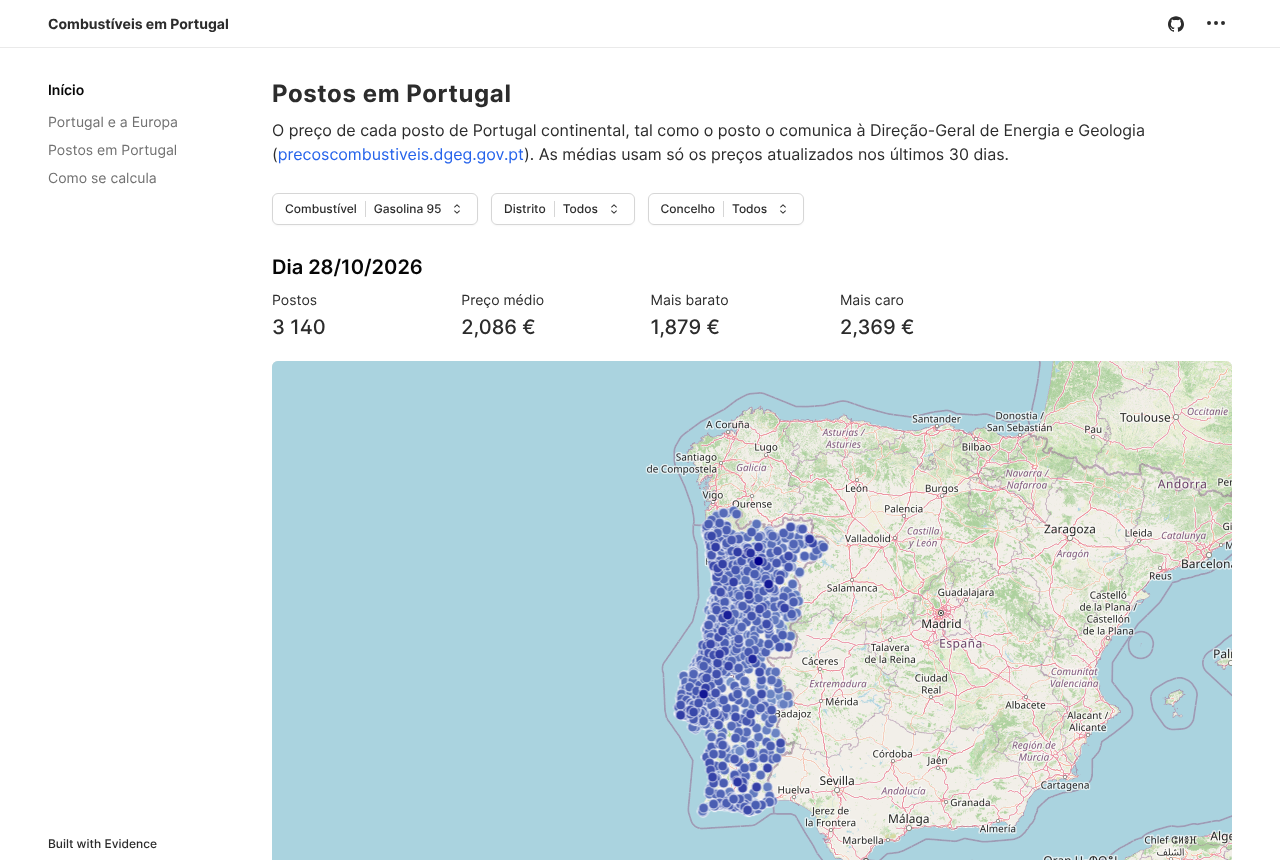
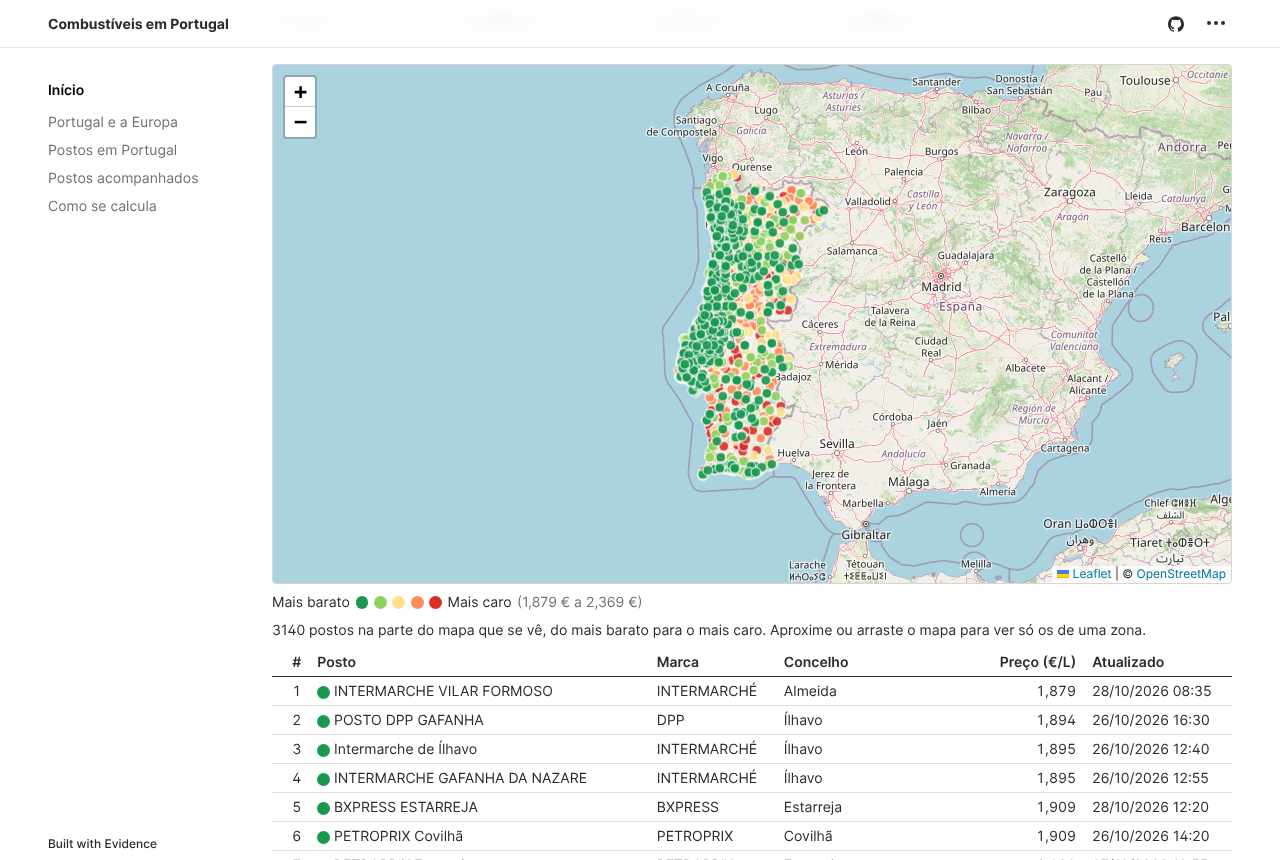
Add a price-sorted table under the stations map that follows the map view (#16)
Claude-Session: https://claude.ai/code/session_01AWiNXJotBmLdgxgatSz48F

diff --git a/dashboard/components/MapaPostos.svelte b/dashboard/components/MapaPostos.svelte
@@ -1,0 +1,233 @@
+<!--
+	Mapa dos postos com a tabela dos que se veem, do mais barato para o mais caro. A tabela
+	acompanha o mapa: ao aproximar ou arrastar, fica só com os postos dentro do mapa. Os
+	componentes de mapa do Evidence não dão os limites do mapa à página, por isso este usa o
+	Leaflet diretamente (já vem com o Evidence), com os mosaicos do OpenStreetMap.
+
+	Colunas de `data`: station_name, brand, municipality, price, updated_at, latitude, longitude.
+-->
+<script>
+	import { onDestroy, onMount } from 'svelte';
+	import 'leaflet/dist/leaflet.css';
+
+	/** Resultado de uma consulta do Evidence (um store com as linhas). */
+	export let data;
+	export let height = 520;
+	/** Linhas da tabela de cada vez; "Mostrar mais" junta outras tantas. */
+	export let pageSize = 15;
+
+	// Do mais barato para o mais caro (5 classes, pelos quintis dos preços da zona escolhida).
+	const COLORS = ['#1a9850', '#91cf60', '#fee08b', '#fc8d59', '#d73027'];
+	const TILES = 'https://tile.openstreetmap.org/{z}/{x}/{y}.png';
+	const ATTRIBUTION = '&copy; <a href="https://www.openstreetmap.org/copyright">OpenStreetMap</a>';
+
+	let element;
+	let L;
+	let map;
+	let layer;
+	let markers = new Map();
+	let rows = [];
+	let visible = [];
+	let shown = pageSize;
+	let breaks = [];
+	let drawn = null;
+
+	$: data?.fetch?.();
+	$: rows = ($data ?? [])
+		.filter((row) => row.latitude != null && row.longitude != null && row.price != null)
+		.map((row, index) => ({ ...row, key: index }));
+	$: breaks = quantiles(rows.map((row) => row.price));
+	// O store da consulta pode emitir as mesmas linhas mais de uma vez: só se redesenha (e
+	// reenquadra o mapa) quando mudam, senão o mapa voltava atrás depois de o utilizador mexer.
+	$: signature = rows.map((row) => `${row.latitude},${row.longitude},${row.price}`).join(';');
+	$: if (map && L && signature !== drawn) draw(rows, signature);
+
+	function quantiles(prices) {
+		const sorted = [...prices].sort((a, b) => a - b);
+		if (!sorted.length) return [];
+		return [0.2, 0.4, 0.6, 0.8].map((q) => sorted[Math.floor(q * (sorted.length - 1))]);
+	}
+
+	function color(price) {
+		const index = breaks.findIndex((limit) => price <= limit);
+		return COLORS[index === -1 ? COLORS.length - 1 : index];
+	}
+
+	const euros = (value) =>
+		value.toLocaleString('pt-PT', { minimumFractionDigits: 3, maximumFractionDigits: 3 }) + ' €';
+
+	function when(value) {
+		if (value == null) return '';
+		const date = value instanceof Date ? value : new Date(value);
+		const pad = (n) => String(n).padStart(2, '0');
+		return `${pad(date.getUTCDate())}/${pad(date.getUTCMonth() + 1)}/${date.getUTCFullYear()} ${pad(date.getUTCHours())}:${pad(date.getUTCMinutes())}`;
+	}
+
+	function escape(text) {
+		return String(text ?? '').replace(/[&<>"']/g, (c) => `&#${c.charCodeAt(0)};`);
+	}
+
+	function popup(row) {
+		return `<strong>${escape(row.station_name)}</strong><br>${escape(row.brand)} · ${escape(row.municipality)}<br>${euros(row.price)}<br><small>Atualizado: ${when(row.updated_at)}</small>`;
+	}
+
+	function draw(rows, signature) {
+		drawn = signature;
+		layer.clearLayers();
+		markers = new Map();
+		// Os mais caros primeiro, para os mais baratos ficarem por cima quando se sobrepõem.
+		for (const row of [...rows].sort((a, b) => b.price - a.price)) {
+			const marker = L.circleMarker([row.latitude, row.longitude], {
+				radius: 5,
+				weight: 1,
+				color: '#ffffff',
+				fillColor: color(row.price),
+				fillOpacity: 0.9
+			}).bindPopup(popup(row));
+			marker.addTo(layer);
+			markers.set(row.key, marker);
+		}
+		if (rows.length) {
+			map.fitBounds(L.latLngBounds(rows.map((row) => [row.latitude, row.longitude])), {
+				padding: [20, 20],
+				maxZoom: 14,
+				animate: false
+			});
+		}
+		update();
+	}
+
+	function update() {
+		const bounds = map.getBounds();
+		visible = rows
+			.filter((row) => bounds.contains([row.latitude, row.longitude]))
+			.sort((a, b) => a.price - b.price || a.station_name.localeCompare(b.station_name));
+		shown = pageSize;
+	}
+
+	function focus(row) {
+		map.setView([row.latitude, row.longitude], Math.max(map.getZoom(), 14));
+		markers.get(row.key)?.openPopup();
+	}
+
+	onMount(async () => {
+		L = (await import('leaflet')).default;
+		map = L.map(element, { preferCanvas: true, scrollWheelZoom: false });
+		L.tileLayer(TILES, { attribution: ATTRIBUTION, maxZoom: 18 }).addTo(map);
+		layer = L.layerGroup().addTo(map);
+		map.setView([39.6, -8.0], 7);
+		map.on('moveend', update);
+	});
+
+	onDestroy(() => map?.remove());
+</script>
+
+<div class="mapa-postos my-4" data-postos={drawn === null ? undefined : rows.length}>
+	<div bind:this={element} style="height: {height}px" class="rounded border border-base-300" />
+	{#if breaks.length}
+		<p class="legenda text-sm">
+			<span>Mais barato</span>
+			{#each COLORS as fill}<span class="cor" style="background: {fill}" />{/each}
+			<span>Mais caro</span>
+			<span class="text-base-content-muted">
+				({euros(Math.min(...rows.map((r) => r.price)))} a {euros(Math.max(...rows.map((r) => r.price)))})
+			</span>
+		</p>
+	{/if}
+
+	<p class="text-sm" aria-live="polite">
+		{#if visible.length}
+			{visible.length.toLocaleString('pt-PT')}
+			{visible.length === 1 ? 'posto' : 'postos'} na parte do mapa que se vê, do mais barato
+			para o mais caro. Aproxime ou arraste o mapa para ver só os de uma zona.
+		{:else}
+			Nenhum posto na parte do mapa que se vê.
+		{/if}
+	</p>
+
+	{#if visible.length}
+		<table class="tabela-postos text-sm">
+			<thead>
+				<tr>
+					<th class="num">#</th>
+					<th>Posto</th>
+					<th>Marca</th>
+					<th>Concelho</th>
+					<th class="num">Preço (€/L)</th>
+					<th>Atualizado</th>
+				</tr>
+			</thead>
+			<tbody>
+				{#each visible.slice(0, shown) as row, index (row.key)}
+					<tr>
+						<td class="num">{index + 1}</td>
+						<td>
+							<button type="button" on:click={() => focus(row)} title="Ver no mapa">
+								<span class="cor" style="background: {color(row.price)}" />
+								{row.station_name}
+							</button>
+						</td>
+						<td>{row.brand}</td>
+						<td>{row.municipality}</td>
+						<td class="num">{euros(row.price).replace(' €', '')}</td>
+						<td>{when(row.updated_at)}</td>
+					</tr>
+				{/each}
+			</tbody>
+		</table>
+		{#if visible.length > shown}
+			<button type="button" class="mais text-sm" on:click={() => (shown += pageSize)}>
+				Mostrar mais ({(visible.length - shown).toLocaleString('pt-PT')} por mostrar)
+			</button>
+		{/if}
+	{/if}
+</div>
+
+<style>
+	.legenda {
+		display: flex;
+		align-items: center;
+		gap: 0.35rem;
+		flex-wrap: wrap;
+		margin: 0.5rem 0;
+	}
+	.cor {
+		display: inline-block;
+		width: 0.8rem;
+		height: 0.8rem;
+		border-radius: 999px;
+		vertical-align: middle;
+	}
+	.tabela-postos {
+		width: 100%;
+		border-collapse: collapse;
+		margin-top: 0.5rem;
+	}
+	.tabela-postos th {
+		text-align: left;
+		font-weight: 600;
+		border-bottom: 1px solid currentColor;
+		padding: 0.25rem 0.5rem;
+	}
+	.tabela-postos td {
+		padding: 0.25rem 0.5rem;
+		border-bottom: 1px solid rgba(127, 127, 127, 0.25);
+	}
+	.tabela-postos .num {
+		text-align: right;
+		font-variant-numeric: tabular-nums;
+	}
+	.tabela-postos button {
+		text-align: left;
+		cursor: pointer;
+	}
+	.tabela-postos button:hover {
+		text-decoration: underline;
+	}
+	.mais {
+		margin-top: 0.5rem;
+		padding: 0.25rem 0.75rem;
+		border: 1px solid rgba(127, 127, 127, 0.5);
+		border-radius: 0.25rem;
+	}
+</style>

diff --git a/CLAUDE.md b/CLAUDE.md
@@ -33,5 +33,5 @@ cd dashboard && npm test                                      # Playwright sobre
 - Agendamento: o `pages.yml` corre todos os dias (cron em UTC) com `ingest --idade-maxima 15`, que falha se o boletim tiver parado. Uma falha não publica nada: o site fica com a última versão boa.
 - Números do painel em português (`2,099 €`, `58,8%`): o `ssf` do Evidence não tem locales, por isso há um patch (`dashboard/patches/`, aplicado pelo `patch-package` no `postinstall`) que troca os separadores na formatação dos números. Se a versão do `@evidence-dev/component-utilities` mudar, o patch tem de ser refeito. As cores das séries estão nas páginas (`seriesColors`, `colorPalette`), e o título e o link do repositório em `pages/+layout.svelte`.
 - Ver o painel: depois do build, servir a pasta pai de um link `combustiveis-pt → dashboard/build` (`python3 -m http.server`) e abrir `/combustiveis-pt/`; as páginas são pastas (`comparacao/`). As capturas do README (`docs/images/painel-*.png`, 1280×860, tema claro) tiram-se assim com o Playwright. A barra lateral usa o `title` de cada página; o CSS em `+layout.svelte` tira o `capitalize` do Evidence, e o caminho de navegação está desligado (dizia sempre "Home").
-- Postos (ADR 0003): `combustiveis dgeg` lê a API JSON da página de pesquisa da DGEG (`/api/PrecoComb/PesquisarPostos`, sem documentação), num pedido só, e escreve `data/landing/dgeg/AAAA-MM-DD.parquet`. A DGEG só mostra o preço em vigor: o histórico é o ramo `dados` (`dgeg/*.parquet`), escrito pelo `dgeg.yml` todos os dias e lido pelo `pages.yml`. Nunca reescrever esse ramo. A leitura (`dgeg.py`) valida a resposta (lança `DgegFormatError`), como o `parse.py`. Termos do portal: identificar a DGEG, mostrar a data e hora de atualização de cada preço e não alterar os preços; as médias excluem os preços com mais de 30 dias (`is_current`), mas os dados guardam tudo. Os testes usam `tests/fixtures/dgeg_sample.json` (`scripts/make_dgeg_sample.py`). Grupos de marcas no seed `dgeg_brand_segments` (o resto é "Outras marcas"). O mapa do painel usa os mosaicos do OpenStreetMap (`tile.openstreetmap.org`, com a atribuição; uso gratuito para pouco tráfego). Os da CARTO, que o Evidence usa por omissão, passaram a pedir uma chave de API (aparece "API KEY REQUIRED" no mapa). Nas sessões cloud, o domínio dos mosaicos tem de estar nos permitidos, senão o mapa aparece sem fundo. O `build:strict` falha com uma tabela ou um gráfico sem dados: o CI usa a amostra (37 postos, fotografia fixa de 28/10/2026, para os preços não ficarem com mais de 30 dias), por isso o que puder ficar vazio leva `emptySet="pass"` e `emptyMessage`. Concorrência: `int_station_neighbours` conta os postos a 2 e 5 km com a fórmula de haversine em SQL (sem a extensão espacial, que o CI teria de descarregar); análise em `docs/analises/concorrencia-postos.md`. Filtros da página: distrito e concelho com `like` e a opção "Todos" = `%` (os nomes não têm apóstrofos). Postos acompanhados (página `acompanhados.md`): os ids da DGEG no seed `tracked_stations`; os concorrentes a 5 km vêm de `int_tracked_station_neighbours`, e o `scripts/make_dgeg_sample.py` junta à amostra cada posto acompanhado e os três mais próximos (um posto novo no seed pede outra amostra). No mapa, `BaseMap` com dois `Points`: os concorrentes pela cor do preço e o posto a vermelho.
+- Postos (ADR 0003): `combustiveis dgeg` lê a API JSON da página de pesquisa da DGEG (`/api/PrecoComb/PesquisarPostos`, sem documentação), num pedido só, e escreve `data/landing/dgeg/AAAA-MM-DD.parquet`. A DGEG só mostra o preço em vigor: o histórico é o ramo `dados` (`dgeg/*.parquet`), escrito pelo `dgeg.yml` todos os dias e lido pelo `pages.yml`. Nunca reescrever esse ramo. A leitura (`dgeg.py`) valida a resposta (lança `DgegFormatError`), como o `parse.py`. Termos do portal: identificar a DGEG, mostrar a data e hora de atualização de cada preço e não alterar os preços; as médias excluem os preços com mais de 30 dias (`is_current`), mas os dados guardam tudo. Os testes usam `tests/fixtures/dgeg_sample.json` (`scripts/make_dgeg_sample.py`). Grupos de marcas no seed `dgeg_brand_segments` (o resto é "Outras marcas"). O mapa do painel usa os mosaicos do OpenStreetMap (`tile.openstreetmap.org`, com a atribuição; uso gratuito para pouco tráfego). Os da CARTO, que o Evidence usa por omissão, passaram a pedir uma chave de API (aparece "API KEY REQUIRED" no mapa). Nas sessões cloud, o domínio dos mosaicos tem de estar nos permitidos, senão o mapa aparece sem fundo. O `build:strict` falha com uma tabela ou um gráfico sem dados: o CI usa a amostra (37 postos, fotografia fixa de 28/10/2026, para os preços não ficarem com mais de 30 dias), por isso o que puder ficar vazio leva `emptySet="pass"` e `emptyMessage`. Concorrência: `int_station_neighbours` conta os postos a 2 e 5 km com a fórmula de haversine em SQL (sem a extensão espacial, que o CI teria de descarregar); análise em `docs/analises/concorrencia-postos.md`. Filtros da página: distrito e concelho com `like` e a opção "Todos" = `%` (os nomes não têm apóstrofos). Postos acompanhados (página `acompanhados.md`): os ids da DGEG no seed `tracked_stations`; os concorrentes a 5 km vêm de `int_tracked_station_neighbours`, e o `scripts/make_dgeg_sample.py` junta à amostra cada posto acompanhado e os três mais próximos (um posto novo no seed pede outra amostra). No mapa, `BaseMap` com dois `Points`: os concorrentes pela cor do preço e o posto a vermelho. O mapa da página dos postos é um componente próprio (`dashboard/components/MapaPostos.svelte`, com o Leaflet que vem com o Evidence), porque os mapas do Evidence não dão os limites à página: a tabela por baixo fica com os postos que se veem, do mais barato para o mais caro. O componente só reenquadra o mapa quando as linhas mudam (o store da consulta emite as mesmas linhas mais de uma vez), e marca `data-postos` quando já desenhou, para os testes esperarem por isso.
 - Testes do painel (`dashboard/tests/pages.spec.mjs`, `@playwright/test` fixado na 1.64.1, a primeira com o Ubuntu 26.04 dos runners do GitHub; nas sessões cloud, o `playwright.config.mjs` usa o Chromium de `PW_CHROMIUM_PATH`, de outra versão): só verificam a forma, para passarem com a amostra e com os dados reais. O `npm test` serve o build com `tests/serve.mjs`; aqui, sem os mosaicos do mapa, a espera pelo `networkidle` demora mais. As listas dos filtros (Dropdown) só desenham as primeiras opções.

diff --git a/dashboard/pages/postos.md b/dashboard/pages/postos.md
@@ -57,29 +57,12 @@ from ${zona}
 <BigValue data={resumo} value=maximo title="Mais caro" fmt='0.000 "€"' />
 
 ```sql mapa
-select station_name, brand, municipality, price as "Preço (€/L)", latitude, longitude, updated_at
+select station_name, brand, municipality, price, latitude, longitude, updated_at
 from ${zona}
 where is_current and latitude is not null
 ```
 
-<PointMap
-    data={mapa}
-    lat=latitude
-    long=longitude
-    value='Preço (€/L)'
-    valueFmt='0.000'
-    pointName=station_name
-    height=600
-    basemap={'https://tile.openstreetmap.org/{z}/{x}/{y}.png'}
-    attribution={'&copy; <a href="https://www.openstreetmap.org/copyright">OpenStreetMap</a>'}
-    tooltip={[
-        {id: 'station_name', showColumnName: false, valueClass: 'font-semibold'},
-        {id: 'brand', title: 'Marca'},
-        {id: 'municipality', title: 'Concelho'},
-        {id: 'Preço (€/L)', title: 'Preço', fmt: '0.000 "€"'},
-        {id: 'updated_at', title: 'Atualizado', fmt: 'dd/mm/yyyy hh:mm'}
-    ]}
-/>
+<MapaPostos data={mapa} />
 
 ## Por grupo de marcas
 
@@ -195,15 +178,9 @@ order by media
 
 Os concelhos com pelo menos 3 postos, do mais barato para o mais caro (no distrito escolhido, ou em todo o continente).
 
-## Os mais baratos e os mais caros
+## Os mais caros
 
-```sql baratos
-select station_name, brand, municipality, district, price, updated_at
-from ${zona}
-where is_current
-order by price, station_name
-limit 10
-```
+Os mais baratos estão na tabela por baixo do mapa.
 
 ```sql caros
 select station_name, brand, municipality, district, price, updated_at
@@ -213,26 +190,13 @@ order by price desc, station_name
 limit 10
 ```
 
-<Tabs>
-    <Tab label="Mais baratos">
-        <DataTable data={baratos} emptySet="pass" emptyMessage="Sem postos nesta zona.">
-            <Column id=station_name title="Posto" />
-            <Column id=brand title="Marca" />
-            <Column id=municipality title="Concelho" />
-            <Column id=price title="Preço (€/L)" fmt='0.000' />
-            <Column id=updated_at title="Atualizado" fmt='dd/mm/yyyy hh:mm' />
-        </DataTable>
-    </Tab>
-    <Tab label="Mais caros">
-        <DataTable data={caros} emptySet="pass" emptyMessage="Sem postos nesta zona.">
-            <Column id=station_name title="Posto" />
-            <Column id=brand title="Marca" />
-            <Column id=municipality title="Concelho" />
-            <Column id=price title="Preço (€/L)" fmt='0.000' />
-            <Column id=updated_at title="Atualizado" fmt='dd/mm/yyyy hh:mm' />
-        </DataTable>
-    </Tab>
-</Tabs>
+<DataTable data={caros} emptySet="pass" emptyMessage="Sem postos nesta zona.">
+    <Column id=station_name title="Posto" />
+    <Column id=brand title="Marca" />
+    <Column id=municipality title="Concelho" />
+    <Column id=price title="Preço (€/L)" fmt='0.000' />
+    <Column id=updated_at title="Atualizado" fmt='dd/mm/yyyy hh:mm' />
+</DataTable>
 
 ## Concorrência
 

diff --git a/README.md b/README.md
@@ -23,7 +23,7 @@ Quase **47 %** do preço são impostos. A decomposição bate certo com o preço
 
 ![Portugal comparado com Espanha e com a média da UE, e o preço em cada país dividido em produto e impostos](docs/images/painel-comparacao.png)
 
-![Página "Postos em Portugal": o preço médio da gasolina 95 no continente e o mapa com os mais de 3000 postos, coloridos pelo preço](docs/images/painel-postos.png)
+![Página "Postos em Portugal": o mapa com os mais de 3000 postos, coloridos do mais barato (verde) ao mais caro (vermelho), e por baixo a tabela dos postos que se veem no mapa, do mais barato para o mais caro](docs/images/painel-postos.png)
 
 ![Página "Postos em Portugal": os postos mais baratos do continente e a diferença de preço para a média do concelho pelo número de concorrentes a 5 km](docs/images/painel-concorrencia.png)
 
@@ -53,7 +53,7 @@ flowchart LR
 | **Transformação**: modelos dbt em DuckDB (staging, imposto em vigor em cada semana com `ASOF JOIN`, decomposição do preço), testes de dados e testes unitários do dbt | ✅ |
 | **Painel**: site estático com o Evidence no GitHub Pages ([joseferrao20.github.io/combustiveis-pt](https://joseferrao20.github.io/combustiveis-pt/)): a divisão do preço, a evolução desde 2005 e a comparação com a Europa | ✅ |
 | **Agendamento**: o GitHub Actions corre tudo todos os dias, e falha (com email) se o boletim deixar de ser atualizado | ✅ |
-| **Postos em Portugal**: fotografia diária dos preços de cada posto (portal da DGEG), guardada no ramo `dados`; no painel, um mapa e as médias por grupo de marcas, marca e distrito ([ADR 0003](docs/adr/0003-precos-dos-postos-dgeg.md)) | ✅ |
+| **Postos em Portugal**: fotografia diária dos preços de cada posto (portal da DGEG), guardada no ramo `dados`; no painel, um mapa com a tabela dos postos que se veem, do mais barato para o mais caro (segue o zoom e os filtros de distrito e concelho), e as médias por grupo de marcas, marca e distrito ([ADR 0003](docs/adr/0003-precos-dos-postos-dgeg.md)) | ✅ |
 | **Postos acompanhados**: alguns postos seguidos dia a dia (seed `tracked_stations`: o Auchan da Circunvalação, no Porto, e o de Viseu), com a posição entre os concorrentes a 5 km e a média do concelho | ✅ |
 
 Decisões: a fonte em [`docs/adr/0001-fonte-weekly-oil-bulletin.md`](docs/adr/0001-fonte-weekly-oil-bulletin.md) e o painel em [`docs/adr/0002-painel-evidence.md`](docs/adr/0002-painel-evidence.md).

diff --git a/DEVLOG.md b/DEVLOG.md
@@ -130,6 +130,11 @@
   - **Amostra dos testes:** o `make_dgeg_sample.py` junta os postos acompanhados e os três mais próximos de cada um, para a página ter dados no CI. Passou de 30 para 37 postos.
   - **Lição:** o `Value` do Evidence deixa um espaço antes da pontuação a seguir; frases com vários valores ficam melhor montadas no SQL.
 
+- **2026-10-28 (sessão cloud do Claude Code):** tabela dos postos por baixo do mapa.
+  - **Feito:** na página "Postos em Portugal", o mapa passa a ter por baixo a tabela dos postos que se veem, do mais barato para o mais caro. Ao aproximar ou arrastar o mapa, ou ao filtrar por distrito e concelho, a tabela acompanha. Clicar num posto da tabela aproxima o mapa dele e abre os dados. As cores vão do verde (mais barato) ao vermelho (mais caro), pelos quintis dos preços da zona, e os mais baratos ficam por cima quando os pontos se sobrepõem. A secção "Os mais baratos e os mais caros" fica só com os mais caros.
+  - **Decisão:** os mapas do Evidence não dão os limites do mapa à página, por isso o mapa é um componente próprio (`dashboard/components/MapaPostos.svelte`) com o Leaflet, que já vinha com o Evidence. O resto da página continua com os componentes do Evidence.
+  - **Lição:** o store de uma consulta do Evidence pode emitir as mesmas linhas mais de uma vez. Se o mapa se reenquadrar a cada emissão, volta atrás depois de o utilizador mexer: o componente só redesenha quando as linhas mudam.
+
 ## Plano
 
 1. **Com 4 a 6 semanas de fotografias:** quanto tempo as marcas demoram a passar as subidas e descidas do boletim (e se sobem mais depressa do que descem), e se os postos isolados demoram mais a baixar. Nos postos acompanhados, se mudam o preço antes ou depois dos concorrentes.
